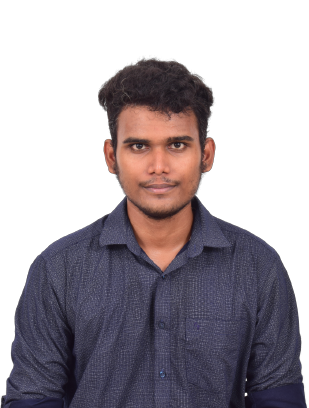
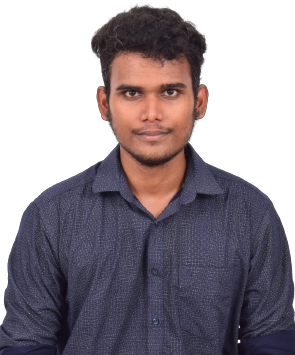
grid arrangement

diff --git a/src/components/Home.js b/src/components/Home.js
@@ -7,6 +7,7 @@ import LinkedIn from '../images/linkedin.png'
 import Mail from '../images/mail.png'
 import codechef from  '../images/codechefavatar.jpg'
 import github from '../images/github.png'
+import IconEffect from '../styles/IconEffect'
 
 
 const Home = () => {
@@ -37,16 +38,17 @@ const Home = () => {
         return ()=> clearInterval(blinking)
     },[showCursor])
     
+    const effect = IconEffect();
 
   return (
     <div>
         <Box>
-            <Grid container >
+            <Grid container display='flex' justifyContent='center'  alignItems='center'>
                 <Grid item lg={5} md={5} sm={12} xs={9} textAlign='center'>
                     
                     <div
-                       style={{display:'flex',justifyContent:'center'}} >
-                    <img src={myImage} alt='myImage'  width={300} height={400} />
+                       style={{display:'flex',justifyContent:'center' , alignItems:'center'}} >
+                    <img  src={myImage} alt='myImage'  width={300} height={350} />
                     </div>
                     
                 </Grid>
@@ -65,15 +67,13 @@ const Home = () => {
                         {sentence === objective &&
                         <Stack direction='row' spacing={1}>
                             <IconButton component={Link} href='https://www.instagram.com/__intelligent__psycho__/' 
-                                target='blank' ><img src={Instagram} alt='Instagram' style={{height:60,width:60}} /></IconButton>
+                                target='blank'  ><img className={effect.root} src={Instagram} alt='Instagram'  /></IconButton>
                             <IconButton  component={Link} href='https://www.linkedin.com/in/sakthikarthick-nagendran-5b5050229/' 
-                                target='blank'><img src={LinkedIn} alt='LinkedIn' style={{height:60,width:60}} /></IconButton>
+                                target='blank' ><img className={effect.root} src={LinkedIn} alt='LinkedIn'  /></IconButton>
                             <IconButton component={Link} href='mailto:sakthikarthick3107@gmail.com' 
-                                target='blank'><img src={Mail} alt='Mail' style={{height:60,width:60}} /></IconButton>
-                            <IconButton component={Link} href='https://www.codechef.com/users/sakthikarthi' 
-                                target='blank'><img src={codechef} alt='Codechef' style={{height:47,width:47,borderRadius:'50%'}}  /></IconButton>
+                                target='blank' ><img className={effect.root} src={Mail} alt='Mail'  /></IconButton>
                             <IconButton component={Link} href='https://github.com/Sakthikarthick3107' 
-                                target='blank'><img src={github} alt='Github' style={{height:45,width:45}} /></IconButton>
+                                target='blank' ><img className={effect.root} src={github} alt='Github'  /></IconButton>
                         </Stack>
                             }
                         </Stack>

diff --git a/src/components/Skills.js b/src/components/Skills.js
@@ -1,13 +1,30 @@
-import {  Grid, Stack, Tooltip, Typography } from '@mui/material'
+import {  Grid, Stack, Tooltip, Typography, useMediaQuery } from '@mui/material'
 import React from 'react'
 import skill from '../images/skills.svg'
 import { Element } from 'react-scroll'
 
 import SkillData from './SkillData'
+import IconEffect from '../styles/IconEffect'
 
 const Skills = () => {
-  
+  const effect = IconEffect();
+  const isMobileScreen = useMediaQuery('(max-width:600px)');
+  const js = [];
 
+  
+    for (const category in SkillData) {
+    SkillData[category].forEach(skill => {
+      js.push({
+        
+          name: skill.name,
+          image: skill.image
+        
+      });
+    });
+  }
+  console.log(js)
+
+  
  
   return (
     <Element name='skills'>
@@ -20,6 +37,18 @@ const Skills = () => {
 
         <Grid container  spacing={3} justifyContent='center'  alignContent='center' >
         
+        {isMobileScreen?
+        <>
+        {js.map((item,index)=>(
+            <Grid item sm={4} display='flex' justifyContent='center' key={index}>
+                <Tooltip title={item.name} arrow key={index}> 
+                <img src={item.image} alt='' className={effect.root}/>
+                </Tooltip>
+            </Grid>
+        ))}
+        </>
+        :
+        <>
         {Object.keys(SkillData).map(category =>(
         <Grid item lg={4} md={6} sm={6} xs={12} key = {category} >
                 <Stack direction='column' display='flex' alignItems='center' justifyContent='center'>
@@ -31,13 +60,7 @@ const Skills = () => {
                         {SkillData[category].map((item , index )=>(
                             <Grid item lg={3} md={4} sm={6} display='flex' justifyContent='center'>
                                 <Tooltip title={item.name} arrow key={index}> 
-                                <img alt='' style={{
-                                    height:80,
-                                    maxWidth:100,
-                                    transition: 'transform ease-in-out 200ms',
-                                    }} src={item.image}
-                                    onMouseOver={(e)=>e.currentTarget.style.transform='scale(1.15)'}
-                                    onMouseOut={(e) =>  e.currentTarget.style.transform='scale(1)'} />
+                                <img src={item.image} alt='' className={effect.root}/>
                                 </Tooltip>
                             </Grid>
                             ))}
@@ -45,6 +68,7 @@ const Skills = () => {
                     </div>
                 </Stack>
             </Grid>))}
+            </>}
         </Grid>
         </div>
         <div style={{height:150}}></div>

diff --git a/src/components/SkillData.js b/src/components/SkillData.js
@@ -13,6 +13,7 @@ import git from '../images/git.png'
 import tailwind from '../images/tailwind.png'
 import nodejs from '../images/nodejs.png'
 import mysql from '../images/mysql.png'
+import postman from '../images/postman.png'
 
 const SkillData ={
     "Programming":[
@@ -81,6 +82,10 @@ const SkillData ={
         {
             name : 'Git',
             image : git
+        },
+        {
+            name : 'Postman',
+            image : postman
         }
     ],
     "Databases":[

diff --git a/src/styles/IconEffect.js b/src/styles/IconEffect.js
@@ -1,0 +1,15 @@
+import { makeStyles } from "@mui/styles";
+
+
+const IconEffect = makeStyles((theme) =>({
+    root:{
+        height:80,
+        maxWidth:100,
+        transition: 'transform ease-in-out 200ms',
+        '&:hover':{
+            transform : 'scale(1.15)'
+        }
+    }
+}));
+
+export default IconEffect;

diff --git a/src/components/Education.js b/src/components/Education.js
@@ -101,7 +101,7 @@ const Education = () => {
 
           <Grid item xs={1} sm={1} md={2} display='flex' justifyContent='center'>
           <TimelineSeparator>
-            <TimelineDot color='info' />
+            <TimelineDot color='info'  />
           </TimelineSeparator>
           </Grid>
 
